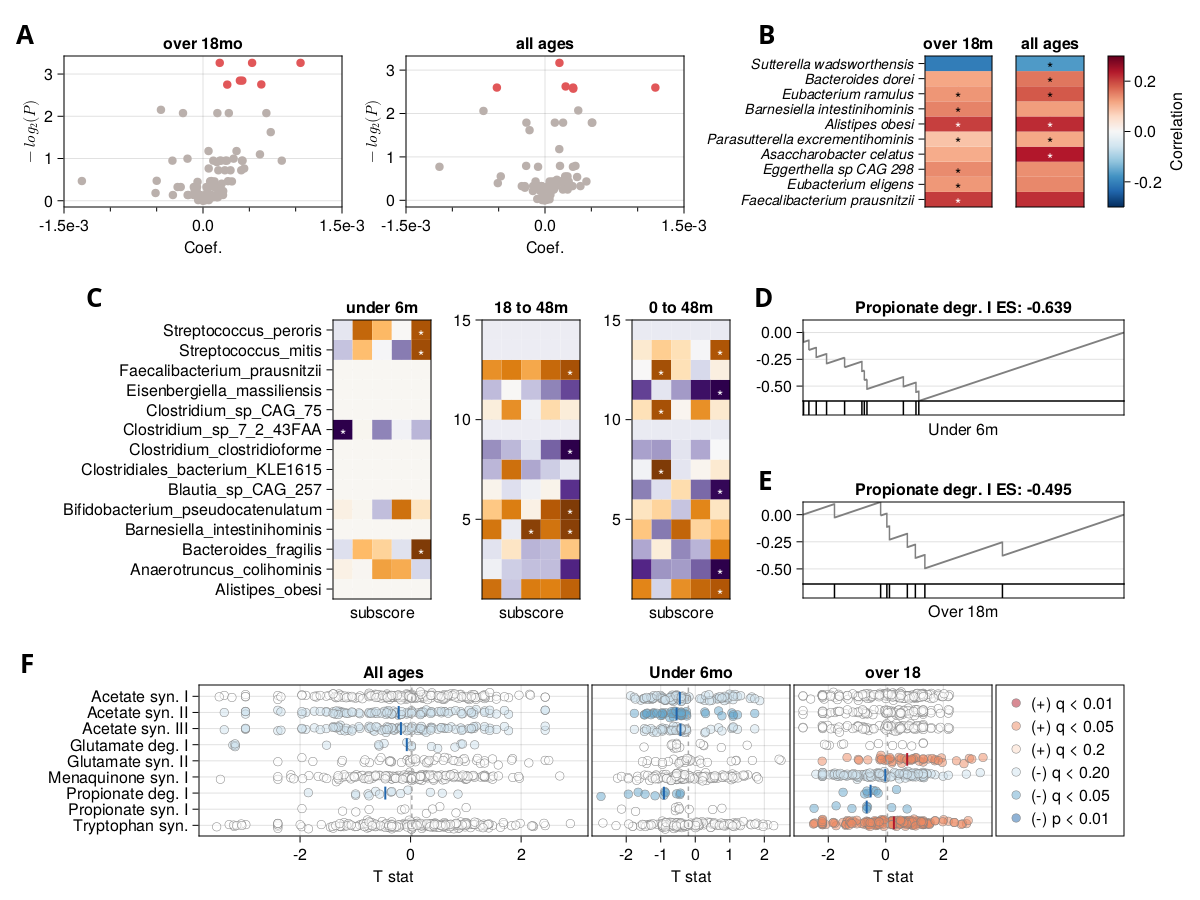
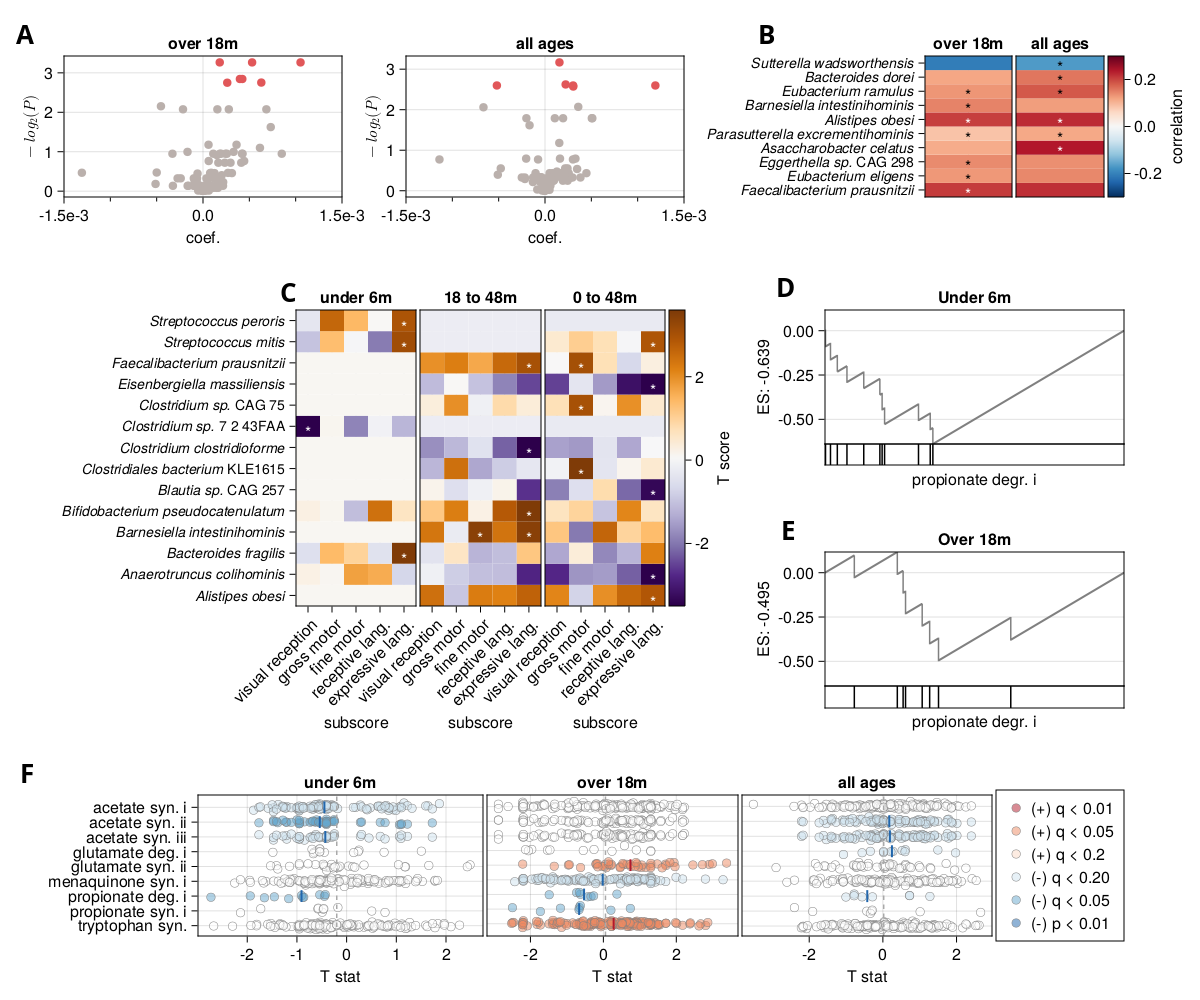
figure 2 finished (other than C alignments)

diff --git a/manuscript/Figure2.md b/manuscript/Figure2.md
@@ -151,7 +151,7 @@ fig
 ## Plotting
 
 ```julia
-figure = Figure(resolution=(1200, 900));
+figure = Figure(resolution=(1200, 1000));
 
 AB = GridLayout(figure[1,1:3])
 A = GridLayout(AB[1,1:2])
@@ -164,11 +164,11 @@ F = GridLayout(figure[3,1:3]; alignmode=Mixed(; left=0))
 
 #-
 
-aax1 = Axis(A[1,1]; title = "over 18mo", ylabel=L"$-log_2(P)$", xlabel = "Coef.",
+aax1 = Axis(A[1,1]; title = "over 18m", ylabel=L"$-log_2(P)$", xlabel = "coef.",
                 xticks = ([-1.5e-3, 0.0, 1.5e-3], ["-1.5e-3", "0.0", "1.5e-3"]),
                 limits = ((-1.5e-3, 1.5e-3), nothing),
                 xminorticksvisible=true, xminorticks = IntervalsBetween(3))
-aax2 = Axis(A[1,2]; title = "all ages", ylabel=L"$-log_2(P)$", xlabel = "Coef.",
+aax2 = Axis(A[1,2]; title = "all ages", ylabel=L"$-log_2(P)$", xlabel = "coef.",
                 xticks = ([-1.5e-3, 0.0, 1.5e-3], ["-1.5e-3", "0.0", "1.5e-3"]),
                 limits = ((-1.5e-3, 1.5e-3), nothing),
                 xminorticksvisible=true, xminorticks = IntervalsBetween(3))
@@ -180,9 +180,16 @@ scatter!(aax2, speclms_00to120.coef, -1 .* log2.(speclms_00to120.qvalue);
 
 #-
 
+bylabs = map(replace.(lms_mat.feature, "_"=> " ")) do lab
+    parts = split(lab, " ")
+    parts[2] == "sp" && (parts[2] = "sp.")
+    lab = rich(join(parts[1:2], " "); font=:italic)
+    length(parts) > 2 ? rich(lab, " ", join(parts[3:end], " "); font=:regular) : lab
+end
+
 bax1 = Axis(B[1, 1];
     title = "over 18m",
-    yticks = (1.5:nrow(lms_mat) + 0.5, replace.(lms_mat.feature, "_"=>" ")),
+    yticks = (1.5:nrow(lms_mat) + 0.5, bylabs),
     yticklabelfont = "TeX Gyre Heros Makie Italic",
     yticklabelsize = 14,
     xticklabelsize = 12
@@ -227,12 +234,12 @@ end
 
 Colorbar(B[1,3];
     colormap=Reverse(:RdBu),
-    label="Correlation",
+    label="correlation",
     limits=(-0.3, 0.3)
 )
 
 
-rowgap!(B, Fixed(4))
+colgap!(B, Fixed(4))
 
 #-
 
@@ -242,27 +249,33 @@ scales_names = map(scales) do n
     isnothing(m) && error("$n doesn't match")
     return string(m[1], " ", replace(m[2], "Language"=> "Lang."))
 end
+cylabs = map(replace.(subscale_mat.species, "_"=> " ")) do lab
+    parts = split(lab, " ")
+    parts[2] == "sp" && (parts[2] = "sp.")
+    lab = rich(join(parts[1:2], " "); font=:italic)
+    length(parts) > 2 ? rich(lab, " ", join(parts[3:end], " "); font=:regular) : lab
+end
 
 filters = ["00to06", "18to120", "00to120"]
 
-cax1 = Axis(C[1,1]; xlabel = "subscore", title="under 6m", yticks = (range(1.5; stop = size(subscale_mat, 1) + 0.5), subscale_mat.species),
-                    xticks = (range(1.5, length(scales)+0.5), scales_names),
-                    xticklabelrotation = pi/4)
-cax1.xticksvisible = false
-cax1.xticklabelsvisible = false
+cax1 = Axis(C[1,1]; xlabel = "subscore", title="under 6m", 
+    yticklabelfont = "TeX Gyre Heros Makie Italic",
+    yticklabelsize = 14,
+    yticks = (range(1.5; stop = size(subscale_mat, 1) + 0.5), cylabs),
+    xticks = (range(1.5, length(scales)+0.5), lowercase.(scales_names)),
+    xticklabelrotation = pi/4)
 
 cax2 = Axis(C[1,2]; xlabel = "subscore", title="18 to 48m",
-                    xticks = (range(1.5, length(scales)+0.5), scales_names),
+                    xticks = (range(1.5, length(scales)+0.5), lowercase.(scales_names)),
                     xticklabelrotation = pi/4)
-cax2.xticksvisible = false
-cax2.xticklabelsvisible = false
+cax2.yticksvisible = false
+cax2.yticklabelsvisible = false
 
 cax3 = Axis(C[1,3]; xlabel = "subscore", title="0 to 48m",
-                    xticks = (range(1.5, length(scales)+0.5), scales_names),
+                    xticks = (range(1.5, length(scales)+0.5), lowercase.(scales_names)),
                     xticklabelrotation = pi/4)
-cax3.xticksvisible = false
-cax3.xticklabelsvisible = false
-
+cax3.yticksvisible = false
+cax3.yticklabelsvisible = false
 
 let
     clrs = vcat((subscale_mat[:, "$(scale)_00to06_t"] for scale in scales)...)
@@ -296,6 +309,12 @@ let
 end
 tightlimits!.([cax1,cax2,cax3])
 
+Colorbar(C[1,4];
+    colormap=Reverse(:PuOr),
+    label="T score",
+    limits=round.(extrema(Matrix(select(subscale_mat, r"_t$"))); digits=1)
+)
+colgap!(C, Fixed(4))
 #-
 
 let
@@ -306,9 +325,9 @@ let
     acs = filter(!isnan, cors_00to06.t[Not(ixs)])
 
     (_, dax, _) = Resonance.plot_fsea!(panel, cs, acs;
-        label = replace(gs, "degradation"=> "degr.", "synthesis"=> "synth.", " (vitamin K2)"=> ""),
-        ylabel = "", xticks = -0.7:0.2:0.0)
-    Label(panel[3,1], "Under 6m"; tellheight=true, tellwidth=false)
+        label = "Under 6m",
+        xticks = -0.7:0.2:0.0)
+    Label(panel[3,1], replace(lowercase(gs), "degradation"=> "degr.", "synthesis"=> "synth.", " (vitamin K2)"=> ""); tellheight=true, tellwidth=false)
     rowgap!(panel, 2, Fixed(4))
     
     gs = "Propionate degradation I"
@@ -318,9 +337,9 @@ let
     acs = filter(!isnan, cors_18to120.t[Not(ixs)])
 
     (_, eax, _) = Resonance.plot_fsea!(panel, cs, acs;
-        label = replace(gs, "degradation"=> "degr.", "synthesis"=> "synth.", " (vitamin K2)"=> ""),
-        ylabel = "")
-    Label(panel[3,1], "Over 18m"; tellheight=true, tellwidth=false)
+        label = "Over 18m",
+        )
+    Label(panel[3,1], replace(lowercase(gs), "degradation"=> "degr.", "synthesis"=> "synth.", " (vitamin K2)"=> ""); tellheight=true, tellwidth=false)
     rowgap!(panel, 2, Fixed(4))
     linkyaxes!(dax, eax)
 end
@@ -328,37 +347,14 @@ end
 #-
 
 let
-    genesets = union(subset(fsdf2_00to120, "qvalue"=> ByRow(<(0.2)), "cortest"=> ByRow(==("cogScore"))).geneset,
-                     subset(fsdf2_00to06, "qvalue"=> ByRow(<(0.2)), "cortest"=> ByRow(==("cogScore"))).geneset,
-                     subset(fsdf2_18to120, "qvalue"=> ByRow(<(0.2)), "cortest"=> ByRow(==("cogScore"))).geneset
-    )
+    genesets = union(subset(fsdf2_00to06, "qvalue"=> ByRow(<(0.2)), "cortest"=> ByRow(==("cogScore"))).geneset,
+                     subset(fsdf2_18to120, "qvalue"=> ByRow(<(0.2)), "cortest"=> ByRow(==("cogScore"))).geneset,
+                     subset(fsdf2_00to120, "qvalue"=> ByRow(<(0.2)), "cortest"=> ByRow(==("cogScore"))).geneset
+               )
   
-    df = sort(subset(fsdf2_00to120, "geneset"=> ByRow(gs-> gs in genesets), "cortest"=>ByRow(==("cogScore"))), :geneset; rev=true)
-    ax = Axis(F[1,1]; yticks = (1:nrow(df), replace.(df.geneset, r" \(.+\)" => "", "synthesis"=>"syn.", "degradation"=>"deg.")), 
-                xlabel="T stat", title="All ages", alignmode=Mixed(; left=-15))
-    m = median(filter(x-> !isnan(x) && x < 7, cors_00to120.t))
-    colors = ColorSchemes.colorschemes[:RdBu_7]
-
-    for (i, row) in enumerate(eachrow(df))
-        sign = row.enrichment < 0 ? "neg" : "pos"
-        c = row.qvalue > 0.2 ? :white : 
-            row.qvalue > 0.05 ? (sign == "pos" ? colors[3] : colors[5]) :
-            row.qvalue > 0.01 ? (sign == "pos" ? colors[2] : colors[6]) :
-            sign == "pos" ? colors[1] : colors[7]
-
-        y = filter(x-> !isnan(x) && x < 7, cors_00to120.t[neuroactive_00to120[row.geneset]])
-        scatter!(ax, y, rand(Normal(0, 0.1), length(y)) .+ i; color=(c,0.5), strokecolor=:gray, strokewidth=0.5)
-        row.qvalue < 0.2 && lines!(ax, fill(median(y), 2), [i-0.4, i+0.4]; color = c in colors[1:3] ? colors[1] : c in colors[5:7] ? colors[7] : :white , linewidth=2)
-    end
-    vlines!(ax, m; linestyle=:dash, color=:darkgray)
-
-    ####
-
     df = sort(subset(fsdf2_00to06, "geneset"=> ByRow(gs-> gs in genesets), "cortest"=>ByRow(==("cogScore"))), :geneset; rev=true)
-    ax = Axis(F[1,2]; yticks = (1:nrow(df), replace.(df.geneset, r" \(.+\)" => "", "synthesis"=>"syn.", "degradation"=>"deg.")), 
-                xlabel="T stat", title="Under 6mo")
-    hideydecorations!(ax, grid=false)
-
+    ax = Axis(F[1,1]; yticks = (1:nrow(df), replace.(lowercase.(df.geneset), r" \(.+\)" => "", "synthesis"=>"syn.", "degradation"=>"deg.")), 
+                xlabel="T stat", title="under 6m", alignmode=Mixed(; left=-15))
     m = median(filter(x-> !isnan(x) && x < 7, cors_00to06.t))
     colors = ColorSchemes.colorschemes[:RdBu_7]
 
@@ -378,9 +374,10 @@ let
     ####
 
     df = sort(subset(fsdf2_18to120, "geneset"=> ByRow(gs-> gs in genesets), "cortest"=>ByRow(==("cogScore"))), :geneset; rev=true)
-    ax = Axis(F[1,3]; yticks = (1:nrow(df), replace.(df.geneset, r" \(.+?\)" => "", "synthesis"=>"syn.", "degradation"=>"deg.")), 
-                xlabel="T stat", title="over 18")
+    ax = Axis(F[1,2]; yticks = (1:nrow(df), replace.(df.geneset, r" \(.+\)" => "", "synthesis"=>"syn.", "degradation"=>"deg.")), 
+                xlabel="T stat", title="over 18m")
     hideydecorations!(ax, grid=false)
+
     m = median(filter(x-> !isnan(x) && x < 7, cors_18to120.t))
     colors = ColorSchemes.colorschemes[:RdBu_7]
 
@@ -392,6 +389,28 @@ let
             sign == "pos" ? colors[1] : colors[7]
 
         y = filter(x-> !isnan(x) && x < 7, cors_18to120.t[neuroactive_18to120[row.geneset]])
+        scatter!(ax, y, rand(Normal(0, 0.1), length(y)) .+ i; color=(c,0.5), strokecolor=:gray, strokewidth=0.5)
+        row.qvalue < 0.2 && lines!(ax, fill(median(y), 2), [i-0.4, i+0.4]; color = c in colors[1:3] ? colors[1] : c in colors[5:7] ? colors[7] : :white , linewidth=2)
+    end
+    vlines!(ax, m; linestyle=:dash, color=:darkgray)
+
+    ####
+
+    df = sort(subset(fsdf2_00to120, "geneset"=> ByRow(gs-> gs in genesets), "cortest"=>ByRow(==("cogScore"))), :geneset; rev=true)
+    ax = Axis(F[1,3]; yticks = (1:nrow(df), replace.(df.geneset, r" \(.+?\)" => "", "synthesis"=>"syn.", "degradation"=>"deg.")), 
+                xlabel="T stat", title="all ages")
+    hideydecorations!(ax, grid=false)
+    m = median(filter(x-> !isnan(x) && x < 7, cors_00to120.t))
+    colors = ColorSchemes.colorschemes[:RdBu_7]
+
+    for (i, row) in enumerate(eachrow(df))
+        sign = row.enrichment < 0 ? "neg" : "pos"
+        c = row.qvalue > 0.2 ? :white : 
+            row.qvalue > 0.05 ? (sign == "pos" ? colors[3] : colors[5]) :
+            row.qvalue > 0.01 ? (sign == "pos" ? colors[2] : colors[6]) :
+            sign == "pos" ? colors[1] : colors[7]
+
+        y = filter(x-> !isnan(x) && x < 7, cors_00to120.t[neuroactive_18to120[row.geneset]])
         scatter!(ax, y, rand(Normal(0, 0.1), length(y)) .+ i; color=(c,0.5), strokecolor=:gray, strokewidth=0.5)
         row.qvalue < 0.2 && lines!(ax, fill(median(y), 2), [i-0.4, i+0.4]; color = c in colors[1:3] ? colors[1] : c in colors[5:7] ? colors[7] : :white , linewidth=2)
     end
@@ -424,7 +443,8 @@ Label(AB[1, 3, TopLeft()], "B",
 Label(C[1, 1, TopLeft()], "C",
     fontsize = 26,
     font = "Open Sans Bold",
-    padding = (0, 230, 5, 0),
+    padding = (0, 0, 0, 0),
+    tellwidth = false,
     halign = :right)
 
 for (label, layout) in zip(["D", "E"], [D, E])
@@ -442,13 +462,12 @@ Label(figure[3, 1, TopLeft()], "F";
              halign = :right
        )
 
-rowsize!(figure.layout, 1, Relative(1/4))
-rowsize!(figure.layout, 3, Relative(1/4))
+rowsize!(figure.layout, 1, Relative(1/5))
+rowsize!(figure.layout, 3, Relative(1/5))
 colsize!(AB, 3, Relative(1/4))
 colsize!(F, 1, Relative(2/5))
 figure
 ```
-
 
 ```julia
 save("manuscript/assets/Figure2.png", figure)
